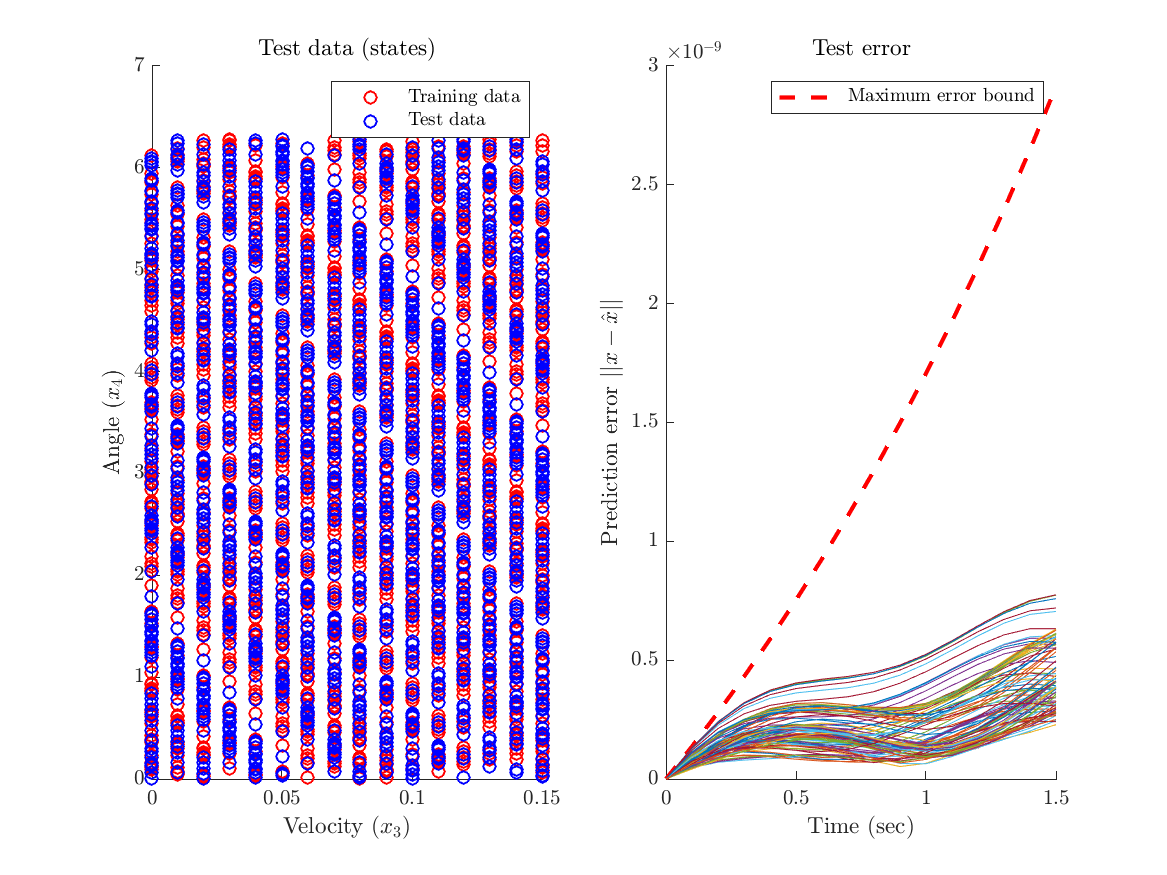
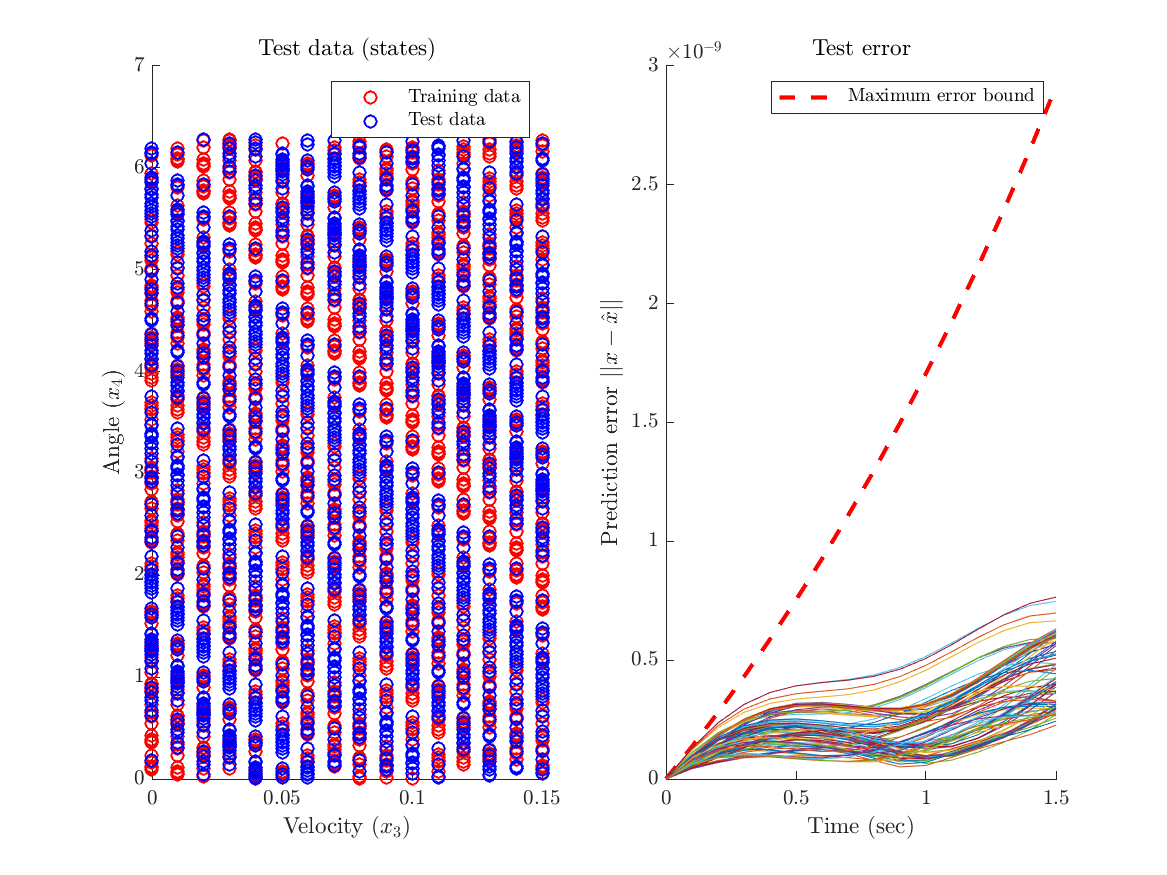
Implemented integration-based controlled (ode45)

Changed region(s): [[0.1234, 0.1543, 0.4936, 0.8949], [0.5553, 0.6789, 0.9254, 0.8949]]

diff --git a/dubin_learning.m b/dubin_learning.m
@@ -11,7 +11,7 @@ global Ts T_max vm rm am x_bdry
 Ts = 0.1;                                           % Sampling interval
 T_max = 2;
 vm = 0.15;                                          % Maximum velocity
-rm = pi;                                        % Maximum yaw rate
+rm = pi;                                            % Maximum yaw rate
 am = 0.1;                                           % Maximum acceleration
 u_lim = [-am am; -rm, rm];
 x_bdry = [-1.6 1.6;-1 1;vm vm;0 2*pi];              % State constraints
@@ -96,7 +96,17 @@ supervisory_controller = @(x, u0, N) koopman_qp_cbf_obs(x, u0, N, affine_dynamic
 [x_rec, u_rec, u0_rec, comp_t_rec] = run_experiment(x0, sim_dynamics, sim_process, legacy_controller, supervisory_controller); 
 plot_experiment(x_rec, u_rec, u0_rec, func_dict, CK_pows);
 
-fprintf('\nSupervisory controller avg comp. time %.2f ms, std comp. time %2.f ms\n', mean(comp_t_rec*1e3), std(comp_t_rec*1e3))
+fprintf('\nKoopman supervisory controller avg comp. time %.2f ms, std comp. time %2.f ms\n', mean(comp_t_rec*1e3), std(comp_t_rec*1e3))
+
+%% Evaluate integration based CBF safety filter (benchmark):
+backup_dynamics_t = @(t,x) backup_dynamics(x);
+J_cl = get_jacobian_cl(backup_dynamics, 4, 2);
+sensitivity_dynamics_sim = @(t,w) sensitivity_dynamics(w, J_cl, backup_dynamics, 4);
+supervisory_controller_int = @(x, u0, N) qp_cbf_obs(x, u0, N, affine_dynamics, backup_dynamics_t, barrier_func, alpha, sensitivity_dynamics_sim, options, u_lim, 4, 2);
+[x_rec_int, u_rec_int, u0_rec_int, comp_t_rec_int] = run_experiment(x0, sim_dynamics, sim_process, legacy_controller, supervisory_controller_int); 
+plot_experiment_int(x_rec_int, u_rec_int, u0_rec_int, backup_dynamics_t);
+
+fprintf('Integration based supervisory controller avg comp. time %.2f ms, std comp. time %2.f ms\n', mean(comp_t_rec_int*1e3), std(comp_t_rec_int*1e3))
 
 %% Save learned matrices to use in other experiments:
 %close all;

diff --git a/controllers/qp_cbf_obs.m b/controllers/qp_cbf_obs.m
@@ -1,0 +1,52 @@
+function u = qp_cbf_obs(x, u0, N, system_dynamics, backup_dynamics, barrier_func_obs, alpha, sensitivity_dynamics, options,u_lim,n,m)
+    global Ts
+    
+    w0 = [x; reshape(eye(n),n*n,1)];
+    if N>= 1
+        [~, w] = ode45(sensitivity_dynamics, [0:Ts:Ts*N], w0);
+    else
+        w = w0;
+    end
+    xx = w(1:N,1:n);
+    QQ = zeros(N*n,n);
+    for i = 1 : N
+        QQ((i-1)*n+1:i*n,:) = reshape(w(i,n+1:end),n,n);
+    end
+    
+    Aineq = [];
+    bineq = [];
+    
+    f_cl = backup_dynamics(0, x);
+    [f,g] = system_dynamics(x);
+    
+    for k = 1:N
+        x_1 = reshape(xx(k,:),n,1);
+
+        b = barrier_func_obs(x_1);
+        qq = QQ(n*(k-1)+1:n*k,:);
+
+        h = 1e-4;
+        db = zeros(n,1);
+        for l = 1 : n
+            x_pert = zeros(n,1);
+            x_pert(l) = h;
+            db(l) = (barrier_func_obs(x_1+x_pert)-b)/h;
+        end
+        Aineq = [Aineq;-db'*qq*g];
+        bineq = [bineq;alpha*b+db'*qq*(f-f_cl)];
+    end
+    
+    if isempty(Aineq)
+        u = u0;
+    else
+        nonzero_inds = find(all(Aineq(:,1:m),2));
+        Aineq = Aineq(nonzero_inds,:);
+        bineq = bineq(nonzero_inds);
+         
+        Aineq = [Aineq -ones(size(Aineq,1),1)];
+        H = diag([ones(1,m) 0]);
+        [res,~,~] = quadprog(H,[-u0;1e6],Aineq,bineq,[],[],[u_lim(:,1);0],[u_lim(:,2);inf],[u0;0],options);
+        
+        u = res(1:m);
+    end
+end

diff --git a/plot_experiment_int.m b/plot_experiment_int.m
@@ -1,0 +1,22 @@
+function plot_experiment_int(x_rec, u_rec, u0_rec, backup_dynamics)
+
+    global Ts am T_exp obs r
+    
+    for i=1:round(T_exp/Ts)
+        figure(4)
+        clf
+        hold on
+        draw_circle(obs(1),obs(2),r);
+        x = x_rec(i,:);
+        plot(x(1),x(2),'rO');
+        quiver(x(1),x(2),0.2*x(3)*cos(x(4)),0.2*x(3)*sin(x(4)));
+        N = ceil(x(3)/am/Ts);
+        [~, xx] = ode45(backup_dynamics, [0:Ts:N*Ts], x);
+        for j = 1:N
+            plot(xx(j,1),xx(j,2),'b*');
+        end
+        axis([-0.2,1.2,-0.5,0.5])
+        axis equal
+        drawnow
+    end
+end

diff --git a/sensitivity_dynamics.m b/sensitivity_dynamics.m
@@ -1,0 +1,8 @@
+function wdot = sensitivity_dynamics(w, J_cl, backup_dynamics, n)
+% w = [x; q], q = flatten(Q)
+
+W = reshape(w(n+1:end),n,n);
+
+wdot = [backup_dynamics(w(1:n));
+    reshape(J_cl(w(1:n))*W, n*n,1)];
+    

diff --git a/dynamics/get_jacobian_cl.m b/dynamics/get_jacobian_cl.m
@@ -1,0 +1,6 @@
+function J_cl = get_jacobian_cl(dynamics_cl, n, m)
+    x = sym('x',[n,1],'real');
+    f_cl = dynamics_cl(x);
+    J_sym = jacobian(f_cl, x);
+    J_cl = matlabFunction(J_sym, 'Vars', {x});
+end
